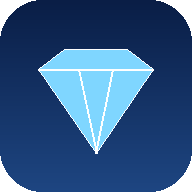
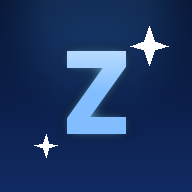
Campanita (gris hasta activar), panel admin rojo/rosado, palomitas verdes, fondo del chat, icono nuevo
Claude-Session: https://claude.ai/code/session_01Ryqe7Cz5nX8twpYqJoAxNF

diff --git a/script.js b/script.js
@@ -1344,7 +1344,7 @@ function renderListaClientes() {
     const b = document.createElement("button");
     b.type = "button";
     b.setAttribute("aria-label", noLeidos ? `${etiqueta}, ${noLeidos} mensajes sin leer` : etiqueta);
-    const borde = seleccionado ? "#f3ba2f" : noLeidos ? "#3b82f6" : "#2b3544";
+    const borde = seleccionado ? "#ff5c8a" : noLeidos ? "#3b82f6" : "#2b3544";
     const fondo = noLeidos ? "#10264a" : "#161822";
     b.style.cssText =
       `display:block;width:100%;text-align:left;margin-bottom:6px;padding:8px;background:${fondo};color:#fff;` +
@@ -2321,7 +2321,7 @@ function construirVistaCliente() {
       monto.placeholder = "Monto " + m;
       ["USD", "ARS"].forEach((x) => {
         const t = $("admin-tile-" + x);
-        if (t) t.style.borderColor = x === m ? "#f3ba2f" : "#2b3544";
+        if (t) t.style.borderColor = x === m ? "#ff5c8a" : "#2b3544";
       });
     };
     moneda.addEventListener("change", resaltar);
@@ -2349,7 +2349,7 @@ function construirVistaCliente() {
       caja.hidden = !abrir;
       tog.setAttribute("aria-expanded", String(abrir));
       flecha.style.transform = abrir ? "rotate(180deg)" : "";
-      tog.style.borderColor = abrir ? "#f3ba2f" : "#2b3544";
+      tog.style.borderColor = abrir ? "#ff5c8a" : "#2b3544";
     });
     vista.append(tog, caja);
     resaltar();
@@ -2376,7 +2376,7 @@ function construirVistaCliente() {
   const inp = document.createElement("input");
   inp.id = "admin-respuesta"; inp.type = "text"; inp.placeholder = "Responder al cliente…"; inp.maxLength = 1000;
   inp.style.cssText = ESTILO_INPUT + "flex:1;";
-  const env = creaBoton("Enviar", "background:#f3ba2f;color:#000;");
+  const env = creaBoton("Enviar", "background:linear-gradient(135deg,#ff2d55,#ff6fa3);color:#fff;border:1px solid rgba(255,190,210,.6);");
   env.id = "admin-btn-responder";
   const enviar = () => responderCliente();
   env.addEventListener("click", enviar);
@@ -2452,7 +2452,7 @@ async function refrescarMensajes(forzar) {
     const burbuja = document.createElement("div");
     burbuja.style.cssText =
       "max-width:80%;padding:7px 10px;border-radius:10px;font-size:13px;word-break:break-word;color:#fff;" +
-      (mio ? "align-self:flex-end;background:#7a5a00;" : "align-self:flex-start;background:#1f2937;");
+      (mio ? "align-self:flex-end;background:linear-gradient(135deg,rgba(255,45,85,.82),rgba(214,51,132,.78));border:1px solid rgba(255,170,200,.5);box-shadow:0 2px 10px rgba(255,45,85,.25);" : "align-self:flex-start;background:#1f2937;");
 
     const texto = f[MSG.textoCol];
     if (texto) {
@@ -2665,21 +2665,21 @@ function inyectarEstilosMensajes() {
   st.textContent = `
     .msg-ctx{position:relative;cursor:pointer}
     .msg-chev{position:absolute;top:-8px;right:-6px;width:18px;height:18px;padding:0;border:none;border-radius:50%;
-      background:rgba(13,14,21,.88);color:#f3ba2f;font-size:11px;line-height:18px;cursor:pointer;opacity:0;box-shadow:0 0 0 1px #3a3f58;transition:opacity .15s;z-index:1}
+      background:rgba(13,14,21,.88);color:var(--zacc,#f3ba2f);font-size:11px;line-height:18px;cursor:pointer;opacity:0;box-shadow:0 0 0 1px #3a3f58;transition:opacity .15s;z-index:1}
     .msg-ctx:hover .msg-chev,.msg-chev:focus-visible,.msg-ctx.msg-abierto .msg-chev{opacity:1}
     @media (hover:none){.msg-chev{display:none}}
-    .msg-ctx.msg-abierto{outline:1px solid #f3ba2f}
-    .msg-pin{font-size:10px;color:#f3ba2f;margin-bottom:2px;font-weight:700}
-    .msg-quote{border-left:3px solid #f3ba2f;background:rgba(0,0,0,.28);border-radius:4px;padding:3px 7px;margin-bottom:4px;
+    .msg-ctx.msg-abierto{outline:1px solid var(--zacc,#f3ba2f)}
+    .msg-pin{font-size:10px;color:var(--zacc,#f3ba2f);margin-bottom:2px;font-weight:700}
+    .msg-quote{border-left:3px solid var(--zacc,#f3ba2f);background:rgba(0,0,0,.28);border-radius:4px;padding:3px 7px;margin-bottom:4px;
       font-size:11px;color:#cbd5e1;cursor:pointer;overflow:hidden;text-overflow:ellipsis;white-space:nowrap}
-    .msg-quote b{display:block;color:#f3ba2f;font-size:10px}
+    .msg-quote b{display:block;color:var(--zacc,#f3ba2f);font-size:10px}
     .msg-reacts{display:flex;flex-wrap:wrap;gap:3px;margin-top:4px}
     .msg-react{background:rgba(0,0,0,.35);border:1px solid #2b3544;border-radius:10px;padding:0 6px;font-size:11px;color:#fff;cursor:pointer}
-    .msg-react.mia{border-color:#f3ba2f;background:rgba(243,186,47,.2)}
+    .msg-react.mia{border-color:var(--zacc,#f3ba2f);background:var(--zacc-bg,rgba(243,186,47,.2))}
     .msg-flash{animation:msgflash 1.4s ease}
-    @keyframes msgflash{0%,60%{box-shadow:0 0 0 2px #f3ba2f}100%{box-shadow:0 0 0 0 transparent}}
+    @keyframes msgflash{0%,60%{box-shadow:0 0 0 2px var(--zacc,#f3ba2f)}100%{box-shadow:0 0 0 0 transparent}}
     #menu-mensaje{position:fixed;z-index:10001;width:max-content;min-width:236px;max-width:calc(100vw - 16px);background:#161822;
-      border:1px solid #f3ba2f;border-radius:14px;box-shadow:0 10px 32px rgba(0,0,0,.75);padding:8px;font-size:13px;color:#fff}
+      border:1px solid var(--zacc,#f3ba2f);border-radius:14px;box-shadow:0 10px 32px rgba(0,0,0,.75);padding:8px;font-size:13px;color:#fff}
     #menu-mensaje .mm-emojis{display:flex;justify-content:space-between;gap:2px;padding:2px 0 8px;margin-bottom:6px;border-bottom:1px solid #2b3544}
     #menu-mensaje .mm-emoji{background:none;border:none;font-size:22px;line-height:1;cursor:pointer;border-radius:8px;padding:5px 6px}
     #menu-mensaje .mm-acciones{display:flex;gap:4px}
@@ -2687,21 +2687,21 @@ function inyectarEstilosMensajes() {
       background:rgba(255,255,255,.04);border:none;color:#fff;padding:8px 6px;border-radius:9px;cursor:pointer;font-size:11.5px;font-weight:600}
     #menu-mensaje .mm-ico{font-size:18px;line-height:1}
     #menu-mensaje .mm-item:hover,#menu-mensaje .mm-item:focus-visible,#menu-mensaje .mm-emoji:hover,#menu-mensaje .mm-emoji:focus-visible{
-      background:rgba(243,186,47,.22);color:#f3ba2f;outline:none}
+      background:var(--zacc-bg,rgba(243,186,47,.22));color:var(--zacc,#f3ba2f);outline:none}
     #menu-mensaje .mm-nota{font-size:11px;color:#888;padding:6px 9px 2px}
     #menu-mensaje.mm-hoja{width:auto;min-width:0;max-width:none;border-radius:16px 16px 12px 12px;padding:10px}
     #menu-mensaje.mm-hoja .mm-emoji{font-size:26px;padding:6px 8px}
     #menu-mensaje.mm-hoja .mm-item{padding:11px 6px;font-size:12px}
-    .barra-msg{display:none;align-items:center;gap:8px;background:#161822;border:1px solid #2b3544;border-left:3px solid #f3ba2f;
+    .barra-msg{display:none;align-items:center;gap:8px;background:#161822;border:1px solid #2b3544;border-left:3px solid var(--zacc,#f3ba2f);
       border-radius:6px;padding:4px 8px;margin-bottom:6px;font-size:11px;color:#cbd5e1}
     .barra-msg .bm-texto{flex:1;min-width:0;overflow:hidden;text-overflow:ellipsis;white-space:nowrap}
-    .barra-msg b{color:#f3ba2f}
-    .barra-msg button{background:none;border:none;color:#f3ba2f;cursor:pointer;font-size:14px;padding:0 2px}
+    .barra-msg b{color:var(--zacc,#f3ba2f)}
+    .barra-msg button{background:none;border:none;color:var(--zacc,#f3ba2f);cursor:pointer;font-size:14px;padding:0 2px}
     .barra-fijados{flex-direction:column;align-items:stretch;gap:3px}
     .barra-fijados .fijado{cursor:pointer;overflow:hidden;text-overflow:ellipsis;white-space:nowrap}
-    #admin-users-list,#admin-msgs,.chat-messages-area{scrollbar-width:thin;scrollbar-color:#f3ba2f #0e0f16}
+    #admin-users-list,#admin-msgs,.chat-messages-area{scrollbar-width:thin;scrollbar-color:var(--zacc,#f3ba2f) #0e0f16}
     #admin-users-list::-webkit-scrollbar,#admin-msgs::-webkit-scrollbar{width:8px}
-    #admin-users-list::-webkit-scrollbar-thumb,#admin-msgs::-webkit-scrollbar-thumb{background:#f3ba2f;border-radius:4px}
+    #admin-users-list::-webkit-scrollbar-thumb,#admin-msgs::-webkit-scrollbar-thumb{background:var(--zacc,#f3ba2f);border-radius:4px}
     #admin-users-list::-webkit-scrollbar-track,#admin-msgs::-webkit-scrollbar-track{background:#0e0f16}
   `;
   document.head.appendChild(st);
@@ -3819,7 +3819,7 @@ function avisarAcreditada(seguimiento) {
   if (document.hidden) {
     const tit = document.title; let n = 0;
     const t = setInterval(() => { document.title = n++ % 2 ? tit : "💎 ¡Carga acreditada!"; if (!document.hidden || n > 40) { clearInterval(t); document.title = tit; } }, 1000);
-    try { if ("Notification" in window && Notification.permission === "granted") new Notification("Zarela", { body: texto }); } catch (_) {}
+    try { if (!pushActivo && "Notification" in window && Notification.permission === "granted") new Notification("Zarela", { body: texto }); } catch (_) {}
   }
 }
 async function consultarSeguimiento() {
@@ -4541,6 +4541,7 @@ document.addEventListener("DOMContentLoaded", () => { pintarPrecios(); cargarPre
 // v10: avisos con sonido propio (chime Zarela), lista de 8 chats y menú ⋮ del chat
 // =====================================================================
 // ---- Sonido: se genera en el momento (no hace falta ningún archivo)
+let pushActivo = false;   // true si este dispositivo ya recibe push (entonces no duplicamos con avisos locales)
 const avisosOn = () => { try { return localStorage.getItem("zarela_avisos") !== "0"; } catch (_) { return true; } };
 let ctxAudio = null;
 const abrirCtxAudio = () => { try { const C = window.AudioContext || window.webkitAudioContext; if (!C) return null; ctxAudio = ctxAudio || new C(); if (ctxAudio.state === "suspended") ctxAudio.resume(); return ctxAudio; } catch (_) { return null; } };
@@ -4563,32 +4564,42 @@ function avisar(titulo, texto, { toast = true, tipo = "ok" } = {}) {
   sonidoZarela();
   if (toast && !document.hidden) mostrarAviso(titulo + (texto ? " " + texto : ""), tipo);
   if (document.hidden && avisosOn()) {
-    try { if ("Notification" in window && Notification.permission === "granted") new Notification(titulo, { body: texto || "", tag: "zarela-aviso" }); } catch (_) {}
+    try { if (!pushActivo && "Notification" in window && Notification.permission === "granted") new Notification(titulo, { body: texto || "", tag: "zarela-aviso" }); } catch (_) {}
   }
 }
 // botón del menú lateral
+const permisoAvisos = () => ("Notification" in window ? Notification.permission : "unsupported");
+const avisosActivos = () => avisosOn() && permisoAvisos() === "granted";
 function pintarBotonAvisos() {
-  const b = $("sb-avisos"); if (!b) return;
-  const on = avisosOn();
-  b.classList.toggle("off", !on);
-  b.querySelector("b").textContent = on ? "Avisos con sonido: activados" : "Avisos con sonido: apagados";
-  b.querySelector("small").textContent = on ? "Te avisamos cuando se acredite tu recarga, tu saldo o te escriba soporte." : "Tocá para volver a activarlos.";
-  b.querySelector(".sb-ico").textContent = on ? "🔔" : "🔕";
+  const perm = permisoAvisos(), act = avisosActivos();
+  const titulo = act ? "Avisos activados" : perm === "denied" ? "Avisos bloqueados" : perm === "unsupported" ? "Avisos no disponibles" : "Activar avisos";
+  const sub = act ? "Te avisamos cuando se acredite tu recarga o te escriba soporte, aunque la página esté cerrada."
+    : perm === "denied" ? "Tu navegador los bloqueó: tocá el candado de la barra de direcciones y permití las notificaciones."
+    : perm === "unsupported" ? "Este navegador no permite notificaciones. Probá con Chrome." : "Tocá para recibir un aviso cuando se acredite tu recarga o te escriba soporte.";
+  const b = $("sb-avisos");
+  if (b) { b.classList.toggle("off", !act); b.querySelector("b").textContent = titulo; b.querySelector("small").textContent = sub; b.querySelector(".sb-ico").textContent = act ? "🔔" : perm === "denied" ? "🚫" : "🔕"; }
+  const t = $("camp-top");
+  if (t) { t.classList.toggle("off", !act); t.classList.toggle("bloq", perm === "denied"); t.title = titulo; t.setAttribute("aria-label", titulo); t.querySelector("i").className = "fa-solid " + (act ? "fa-bell" : perm === "denied" ? "fa-bell-slash" : "fa-bell-slash"); t.querySelector("span").textContent = act ? "Avisos" : perm === "denied" ? "Bloqueados" : "Activar"; }
 }
 async function alternarAvisos() {
-  const on = !avisosOn();
-  try { localStorage.setItem("zarela_avisos", on ? "1" : "0"); } catch (_) {}
-  pintarBotonAvisos();
-  if (!on) desuscribirPush();
-  if (on) {
-    setTimeout(() => registrarPush(true), 300);
-    sonidoZarela(true);
-    try { if ("Notification" in window && Notification.permission === "default") await Notification.requestPermission(); } catch (_) {}
-    mostrarAviso("Avisos activados. Así suena. 🔔", "ok");
+  const perm = permisoAvisos();
+  if (perm === "unsupported" || perm === "denied") { mostrarAviso(perm === "denied" ? "Tenés los avisos bloqueados en el navegador. Tocá el candado junto a la dirección y permití las notificaciones." : "Este navegador no permite notificaciones.", "error"); pintarBotonAvisos(); return; }
+  if (avisosActivos()) {   // estaba activo → apagar
+    try { localStorage.setItem("zarela_avisos", "0"); } catch (_) {}
+    desuscribirPush(); pintarBotonAvisos(); mostrarAviso("Avisos apagados.", "ok"); return;
   }
+  try { localStorage.setItem("zarela_avisos", "1"); } catch (_) {}
+  sonidoZarela(true);
+  try { if (Notification.permission === "default") await Notification.requestPermission(); } catch (_) {}
+  pintarBotonAvisos();
+  if (Notification.permission === "granted") {
+    const ok = await registrarPush(true); pintarBotonAvisos();
+    mostrarAviso(ok ? "Avisos activados. Así suena. 🔔" : "Avisos activados en esta página.", "ok");
+  } else mostrarAviso("No diste permiso: los avisos siguen apagados.", "error");
 }
 Object.assign(window, { alternarAvisos });
-document.addEventListener("DOMContentLoaded", () => { pintarBotonAvisos(); $("sb-avisos")?.addEventListener("click", alternarAvisos); });
+document.addEventListener("DOMContentLoaded", () => { pintarBotonAvisos(); $("sb-avisos")?.addEventListener("click", alternarAvisos); $("camp-top")?.addEventListener("click", alternarAvisos); });
+try { navigator.permissions?.query({ name: "notifications" }).then((r) => { r.onchange = () => pintarBotonAvisos(); }); } catch (_) {}
 
 // acreditación de recarga
 {
@@ -4854,6 +4865,7 @@ async function registrarPush(pedir) {
     const j = sub.toJSON();
     const { error } = await supabase.rpc("guardar_push", { p_endpoint: j.endpoint, p_p256dh: j.keys.p256dh, p_auth: j.keys.auth });
     if (error) { console.warn("Push: falta ejecutar novedades_clientes_v14.sql", error.message); return false; }
+    pushActivo = true;
     return true;
   } catch (err) { console.warn("Push no disponible:", err); return false; }
 }
@@ -4863,4 +4875,72 @@ async function desuscribirPush() {
     const ep = sub.endpoint; await sub.unsubscribe(); await supabase.rpc("borrar_push", { p_endpoint: ep });
   } catch (_) {}
 }
-supabase.auth.onAuthStateChange((_e, session) => { if (session) setTimeout(() => { if (avisosOn() && "Notification" in window && Notification.permission === "granted") registrarPush(false); }, 1500); });
+supabase.auth.onAuthStateChange((_e, session) => { if (session) setTimeout(async () => { if (avisosOn() && "Notification" in window && Notification.permission === "granted") await registrarPush(false); pintarBotonAvisos(); }, 1500); else { pushActivo = false; pintarBotonAvisos(); } });
+
+
+// =====================================================================
+// v16: "entregado" apenas la administradora tiene la página abierta + fondo de pantalla del chat
+// =====================================================================
+setInterval(() => {
+  if (!entregaDisponible || !esAdminActual() || document.hidden) return;
+  try { supabase.rpc("admin_marcar_entregados").then(() => {}, () => {}); } catch (_) {}
+}, 15000);
+supabase.auth.onAuthStateChange((_e, session) => { if (session && (session.user.email || "").toLowerCase() === CONFIG.ADMIN_EMAIL.toLowerCase()) setTimeout(() => { try { supabase.rpc("admin_marcar_entregados").then(() => {}, () => {}); } catch (_) {} }, 1200); });
+
+const FONDOS_CHAT = [
+  { id: "ninguno", n: "Liso", css: "" },
+  { id: "cristal", n: "Cristal azul", css: "radial-gradient(circle at 20% 0%,rgba(127,214,255,.3),transparent 55%),linear-gradient(160deg,#10294f,#070c1c)" },
+  { id: "orion", n: "Verde Orión", css: "radial-gradient(ellipse at 50% -10%,rgba(25,230,140,.45),transparent 60%),linear-gradient(180deg,#0d4a34,#04140d)" },
+  { id: "rosa", n: "Rosa cristal", css: "radial-gradient(circle at 80% 0%,rgba(255,92,138,.4),transparent 55%),linear-gradient(160deg,#3a0b24,#10060f)" },
+  { id: "noche", n: "Noche", css: "linear-gradient(160deg,#171a2e,#05060c)" },
+  { id: "ff", n: "Free Fire", css: "linear-gradient(rgba(5,8,20,.6),rgba(5,8,20,.6)),url('fondo-difuminado.jpg') center/cover" },
+];
+const claveFondo = "zarela_chat_fondo";
+function fondoGuardado() { try { return JSON.parse(localStorage.getItem(claveFondo) || "null"); } catch (_) { return null; } }
+function aplicarFondoChat() {
+  const f = fondoGuardado(); let css = "";
+  if (f?.tipo === "preset") css = (FONDOS_CHAT.find((x) => x.id === f.id) || {}).css || "";
+  else if (f?.tipo === "foto" && f.data) css = `linear-gradient(rgba(5,8,20,.45),rgba(5,8,20,.45)),url(${f.data}) center/cover`;
+  document.documentElement.style.setProperty("--chat-fondo", css || "none");
+  document.body.classList.toggle("chat-con-fondo", !!css);
+}
+function elegirFondo(v) { try { localStorage.setItem(claveFondo, JSON.stringify(v)); } catch (_) { mostrarAviso("No se pudo guardar el fondo en este dispositivo.", "error"); } aplicarFondoChat(); pintarSelectorFondo(); }
+function pintarSelectorFondo() {
+  const cont = $("fch-grid"); if (!cont) return; const f = fondoGuardado();
+  cont.replaceChildren(...FONDOS_CHAT.map((x) => {
+    const b = document.createElement("button"); b.type = "button"; b.className = "fch-op" + ((f?.tipo === "preset" && f.id === x.id) || (!f && x.id === "ninguno") ? " on" : "");
+    b.innerHTML = `<i style="background:${x.css || "#0d0e15"}"></i><span>${x.n}</span>`;
+    b.addEventListener("click", () => elegirFondo({ tipo: "preset", id: x.id })); return b;
+  }));
+}
+function abrirSelectorFondo() {
+  let m = $("fch-modal");
+  if (!m) {
+    m = document.createElement("div"); m.id = "fch-modal"; m.className = "fch-modal";
+    m.innerHTML = `<div class="fch-box" role="dialog" aria-label="Fondo del chat"><div class="fch-top"><b>🖼 Fondo del chat</b><button type="button" class="fch-x" aria-label="Cerrar">✕</button></div><div id="fch-grid" class="fch-grid"></div><label class="fch-foto"><input type="file" accept="image/*" hidden> <span>📷 Usar mi propia foto</span></label><small>El fondo se guarda solo en este dispositivo.</small></div>`;
+    document.body.appendChild(m);
+    m.addEventListener("click", (e) => { if (e.target === m || e.target.closest(".fch-x")) m.classList.remove("abierto"); });
+    m.querySelector("input").addEventListener("change", (e) => {
+      const file = e.target.files?.[0]; e.target.value = ""; if (!file) return;
+      const img = new Image(); const u = URL.createObjectURL(file);
+      img.onload = () => { const k = Math.min(1, 900 / Math.max(img.width, img.height)); const c = document.createElement("canvas"); c.width = Math.round(img.width * k); c.height = Math.round(img.height * k); c.getContext("2d").drawImage(img, 0, 0, c.width, c.height); URL.revokeObjectURL(u); elegirFondo({ tipo: "foto", data: c.toDataURL("image/jpeg", 0.72) }); };
+      img.onerror = () => mostrarAviso("No se pudo leer esa imagen.", "error"); img.src = u;
+    });
+  }
+  pintarSelectorFondo(); m.classList.add("abierto");
+}
+Object.assign(window, { abrirSelectorFondo });
+aplicarFondoChat();
+// entrada en el menú ⋮ del chat de la administradora
+{
+  const prev = armarMenuChat;
+  armarMenuChat = function () {
+    const ya = $("admin-chat-view")?.querySelector(".adm-cab")?.dataset.menu;
+    prev();
+    if (ya) return;
+    const menu = $("admin-chat-view")?.querySelector(".adm-menu"); if (!menu || menu.querySelector(".adm-fondo")) return;
+    const b = document.createElement("button"); b.type = "button"; b.className = "adm-mi adm-fondo"; b.innerHTML = "<span>🖼</span><b>Fondo del chat</b>";
+    b.addEventListener("click", () => { menu.hidden = true; abrirSelectorFondo(); });
+    menu.insertBefore(b, menu.querySelector(".adm-sep") || null);
+  };
+}

diff --git a/style.css b/style.css
@@ -1978,3 +1978,49 @@ body.modo-admin #admin-panel-section{display:block!important;width:min(1100px,10
 .msg-tk.en-hora{display:inline-block}
 .msg-tk-w{text-align:right;line-height:1;margin-top:2px}
 .msg-tk-w .msg-tk{margin-left:0}
+
+.sl-aviso textarea{border-color:#7fd6ff88;min-height:64px}
+.sl-aviso textarea:focus{outline:none;border-color:#7fd6ff;box-shadow:0 0 0 3px rgba(127,214,255,.2)}
+
+/* v16: campanita principal */
+.camp-top{position:absolute;right:16px;bottom:8px;z-index:25;display:inline-flex;align-items:center;gap:6px;padding:5px 11px;border-radius:99px;font:700 12px/1 inherit;cursor:pointer;color:#04210f;border:1px solid rgba(25,230,140,.8);background:linear-gradient(135deg,#9dffc9,#19e68c);box-shadow:0 0 12px rgba(25,230,140,.45)}
+.camp-top.off{color:#cfd6e6;background:rgba(255,255,255,.08);border-color:rgba(255,255,255,.25);box-shadow:none;backdrop-filter:blur(6px)}
+.camp-top.off:hover{background:rgba(25,230,140,.16);border-color:rgba(25,230,140,.7);color:#fff}
+.camp-top.bloq{color:#ffb3b3;border-color:rgba(255,120,120,.5)}
+.camp-top i{font-size:12px}
+@media (max-width:600px){.camp-top{right:10px;bottom:6px;padding:4px 9px;font-size:11px}}
+
+/* Palomitas tipo WhatsApp: visto = verde Orión brillante */
+.msg-tk{font-size:12px;color:rgba(255,255,255,.6)}
+.msg-tk.visto{color:#19ff9c;text-shadow:0 0 6px rgba(25,230,140,.9);font-size:13px}
+.chat-v2 .user-msg .msg-tk,.msg-tk-w{filter:none}
+
+/* Fondo de pantalla del chat */
+body.chat-con-fondo .chat-v2 .chat-messages-area,body.chat-con-fondo #admin-msgs{background:var(--chat-fondo)!important;background-attachment:local}
+.chat-fondo-btn{background:rgba(255,255,255,.1);border:1px solid rgba(255,255,255,.2);color:#fff;border-radius:50%;width:30px;height:30px;cursor:pointer;margin-left:auto;margin-right:6px;display:inline-grid;place-items:center;font-size:13px}
+.chat-widget-header{display:flex;align-items:center}
+.fch-modal{position:fixed;inset:0;z-index:100000;background:rgba(0,0,10,.6);backdrop-filter:blur(4px);display:none;align-items:center;justify-content:center;padding:16px}
+.fch-modal.abierto{display:flex}
+.fch-box{width:min(420px,100%);background:rgba(18,22,40,.95);border:1px solid rgba(127,214,255,.4);border-radius:20px;padding:14px;color:#fff;display:grid;gap:12px;box-shadow:0 20px 60px rgba(0,0,0,.6)}
+.fch-top{display:flex;justify-content:space-between;align-items:center}
+.fch-x{background:none;border:0;color:#fff;font-size:18px;cursor:pointer}
+.fch-grid{display:grid;grid-template-columns:repeat(3,1fr);gap:10px}
+.fch-op{background:none;border:2px solid transparent;border-radius:14px;padding:4px;color:#dfe5f3;font-size:11px;cursor:pointer;display:grid;gap:5px;justify-items:center}
+.fch-op i{display:block;width:100%;aspect-ratio:3/4;border-radius:10px;border:1px solid rgba(255,255,255,.2)}
+.fch-op.on{border-color:#19e68c}
+.fch-foto{display:flex;justify-content:center;padding:10px;border-radius:12px;border:1px dashed rgba(127,214,255,.6);cursor:pointer;font-weight:700;font-size:13px}
+.fch-box small{color:#9aa6c0;text-align:center}
+
+/* Panel de administradora: rojo y rosado cristal */
+body.modo-admin{--zacc:#ff5c8a;--zacc-bg:rgba(255,92,138,.22)}
+body.modo-admin #admin-panel-section{background:linear-gradient(160deg,rgba(255,45,85,.16),rgba(255,92,138,.07) 45%,rgba(18,6,16,.92))!important;border:1px solid rgba(255,110,160,.55)!important;box-shadow:0 10px 40px rgba(255,45,85,.18),inset 0 1px 0 rgba(255,255,255,.14);backdrop-filter:blur(10px)}
+body.modo-admin .adm-modo{background:rgba(255,92,138,.14)!important;border-color:#ff5c8a!important}
+.adm-rail{background:rgba(255,255,255,.04)!important;border-color:rgba(255,110,160,.35)!important}
+.adm-rail .admin-tab.activa{background:rgba(255,92,138,.2)!important;border-color:#ff5c8a!important;color:#ffd1e0!important}
+.adm-rail .rt-n{background:#ff2d55!important}
+#admin-users-list{scrollbar-color:#ff5c8a #0e0f16}
+#admin-users-list::-webkit-scrollbar-thumb,#admin-msgs::-webkit-scrollbar-thumb{background:#ff5c8a!important}
+#admin-chat-view{background:linear-gradient(170deg,rgba(255,45,85,.10),rgba(14,15,22,.92))!important;border:1px solid rgba(255,110,160,.3)}
+.adm-puntos:hover{border-color:#ff5c8a!important;color:#ff5c8a!important}
+.adm-chat-abierto .adm-atras{border-color:#ff5c8a!important;background:rgba(255,92,138,.14)!important}
+.msg-ctx.msg-abierto{outline-color:#ff5c8a}

diff --git a/index.html b/index.html
@@ -781,6 +781,7 @@
   </button>
   </div>
   
+  <button type="button" id="camp-top" class="camp-top off" title="Activar avisos" aria-label="Activar avisos"><i class="fa-solid fa-bell-slash"></i><span>Activar</span></button>
   <div class="carousel-dots" id="carousel-dots">
   <span class="dot" onclick="irASlide(0)"></span>
   <span class="dot active" onclick="irASlide(1)"></span>
@@ -1006,6 +1007,7 @@
   <span class="chat-avatar" id="chat-avatar">A<i class="chat-status-dot"></i></span>
   <span class="chat-agente-txt"><strong>Alma Zarela</strong><small>En línea · Soporte</small></span>
   </div>
+  <button type="button" class="chat-fondo-btn" aria-label="Fondo del chat" title="Fondo del chat" onclick="abrirSelectorFondo()"><i class="fa-regular fa-image"></i></button>
   <button type="button" class="chat-cerrar" aria-label="Cerrar chat" onclick="alternarChat(false)"><i class="fa-solid fa-xmark"></i></button>
   </div>
   <div class="chat-messages-area" id="chat-messages-container">

diff --git a/sw.js b/sw.js
@@ -8,7 +8,7 @@ self.addEventListener("push", (e) => {
     const ws = await self.clients.matchAll({ type: "window", includeUncontrolled: true });
     if (ws.some((w) => w.visibilityState === "visible")) return;
     await self.registration.showNotification(d.titulo || "Zarela", {
-      body: d.cuerpo || "", icon: "icon-192.png", badge: "icon-192.png",
+      body: d.cuerpo || "", icon: "icon-192.png", badge: "badge-96.png", vibrate: [120, 60, 120],
       tag: d.tag || "zarela", renotify: true, data: { url: d.url || "./" },
     });
   })());
